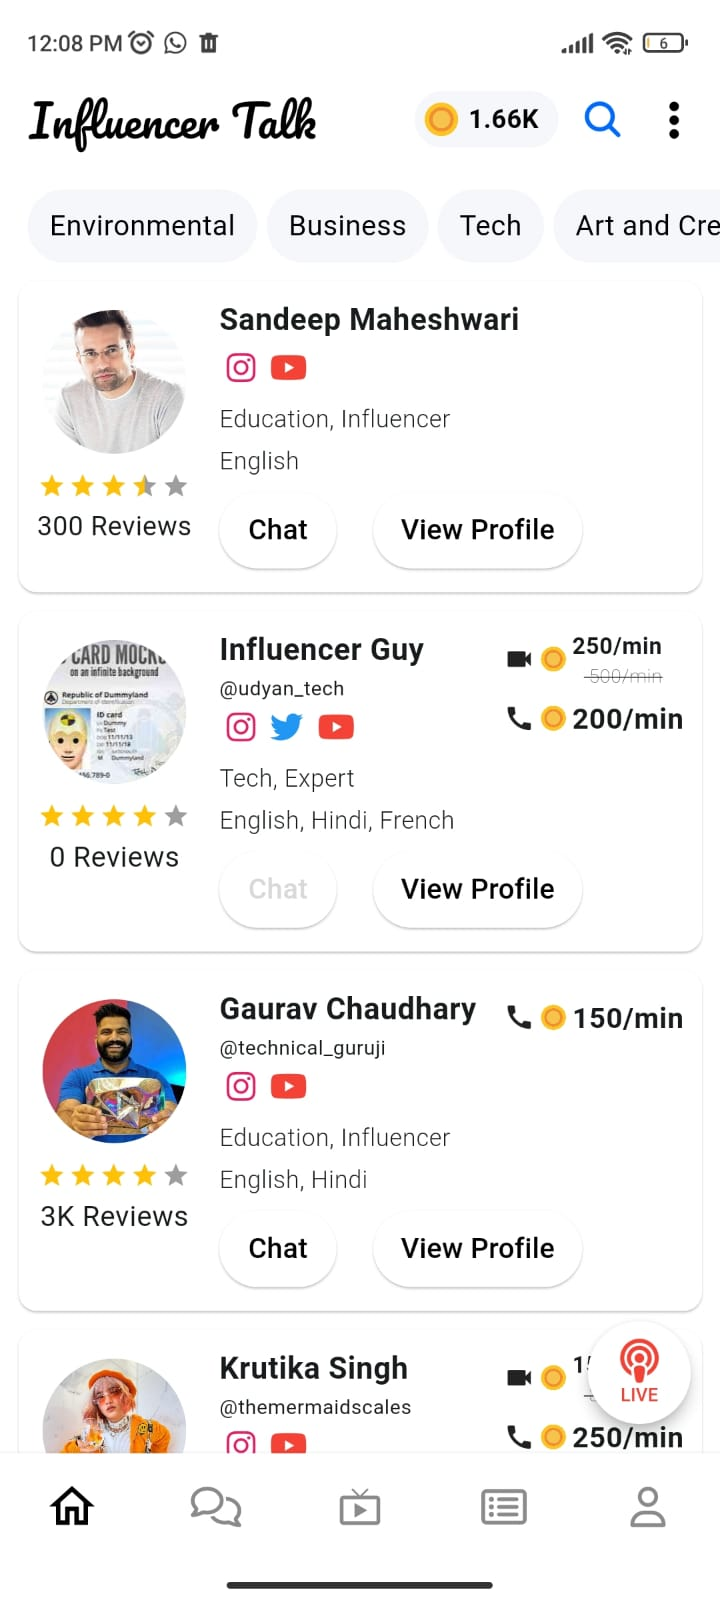
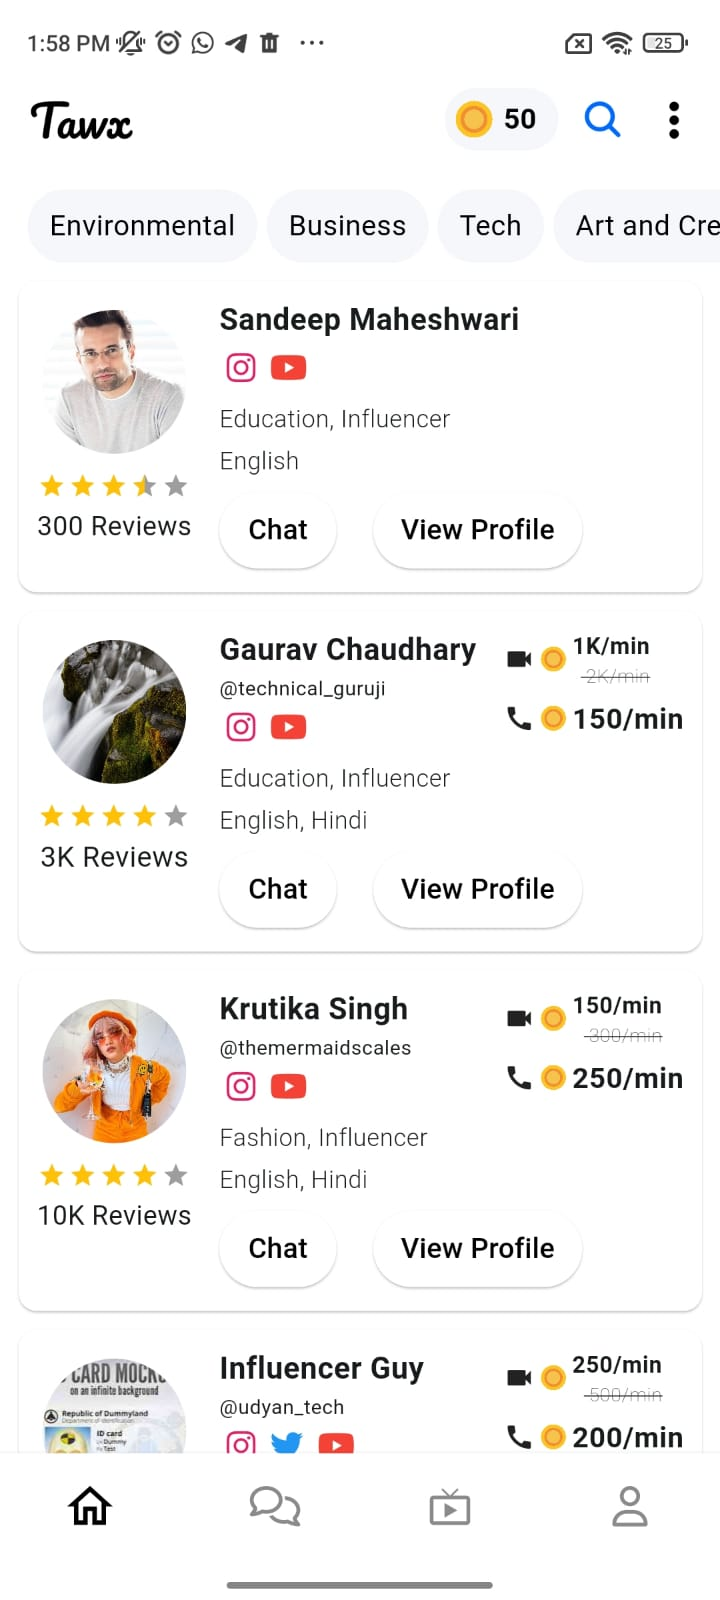
Docs updated as per new name

diff --git a/docs/index.md b/docs/index.md
@@ -4,7 +4,7 @@
 
 <img src="sign up.jpg" width=150 >
 
-* This is the sign-up page for users and influencers to start off with influencer-talk
+* This is the sign-up page for users and influencers to start off with Tawx
 * Users can sign up using their phone number/E-mail ID, entering their Full Name and password
 * They can also choose to authenticate using their Google Account
 

diff --git a/docs/Purchasing Credits.md b/docs/Purchasing Credits.md
@@ -1,4 +1,4 @@
-# Credits: The influencer talk currency
+# Credits: The Tawx app currency
 
 ## Credits 
 
@@ -9,7 +9,7 @@
 
 * Click on the `Credits` or coin like icon at the top of the home screen.
 
-<img src="./credit_icon.png" width=150 >
+<img src="credit_icon.jpg" width=150 >
 
 * Tapping on this icon will take the user to the `Plans Section`.
 
